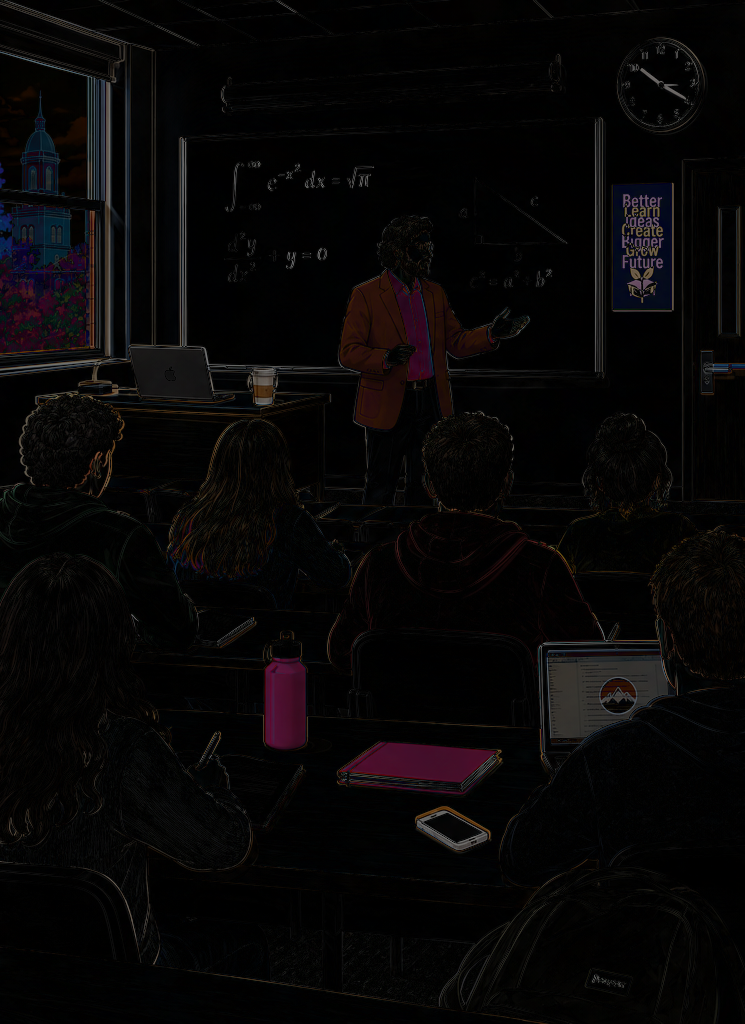
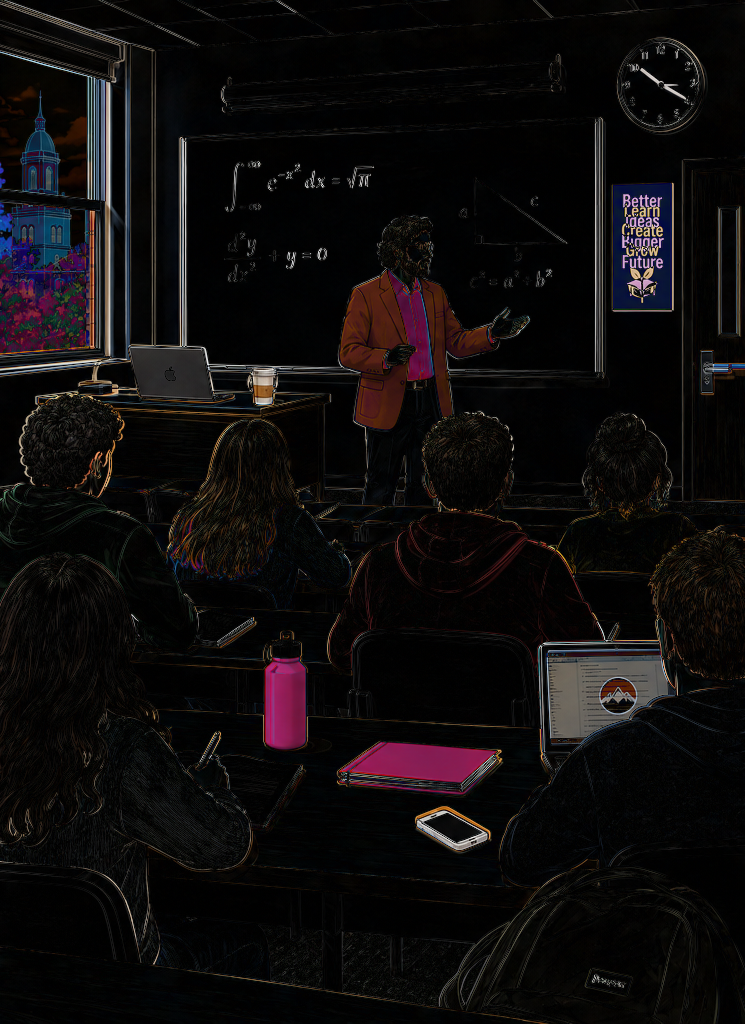
fix

diff --git a/diferencias.py b/diferencias.py
@@ -2,12 +2,10 @@ import cv2
 import numpy as np
 
 # primer punto
-M1 = cv2.imread('left.png')
-M2 = cv2.imread('right.png')
+M1 = cv2.imread('left.png').astype(np.int16)
+M2 = cv2.imread('right.png').astype(np.int16)
 
-diff = np.abs(np.round(M1/2) - np.round(M2/2))
+diff = np.abs(M1 - M2)
 diff = diff.astype(np.uint8)
 
 cv2.imwrite('diferencia.png', diff)
-
-# segundo punto
